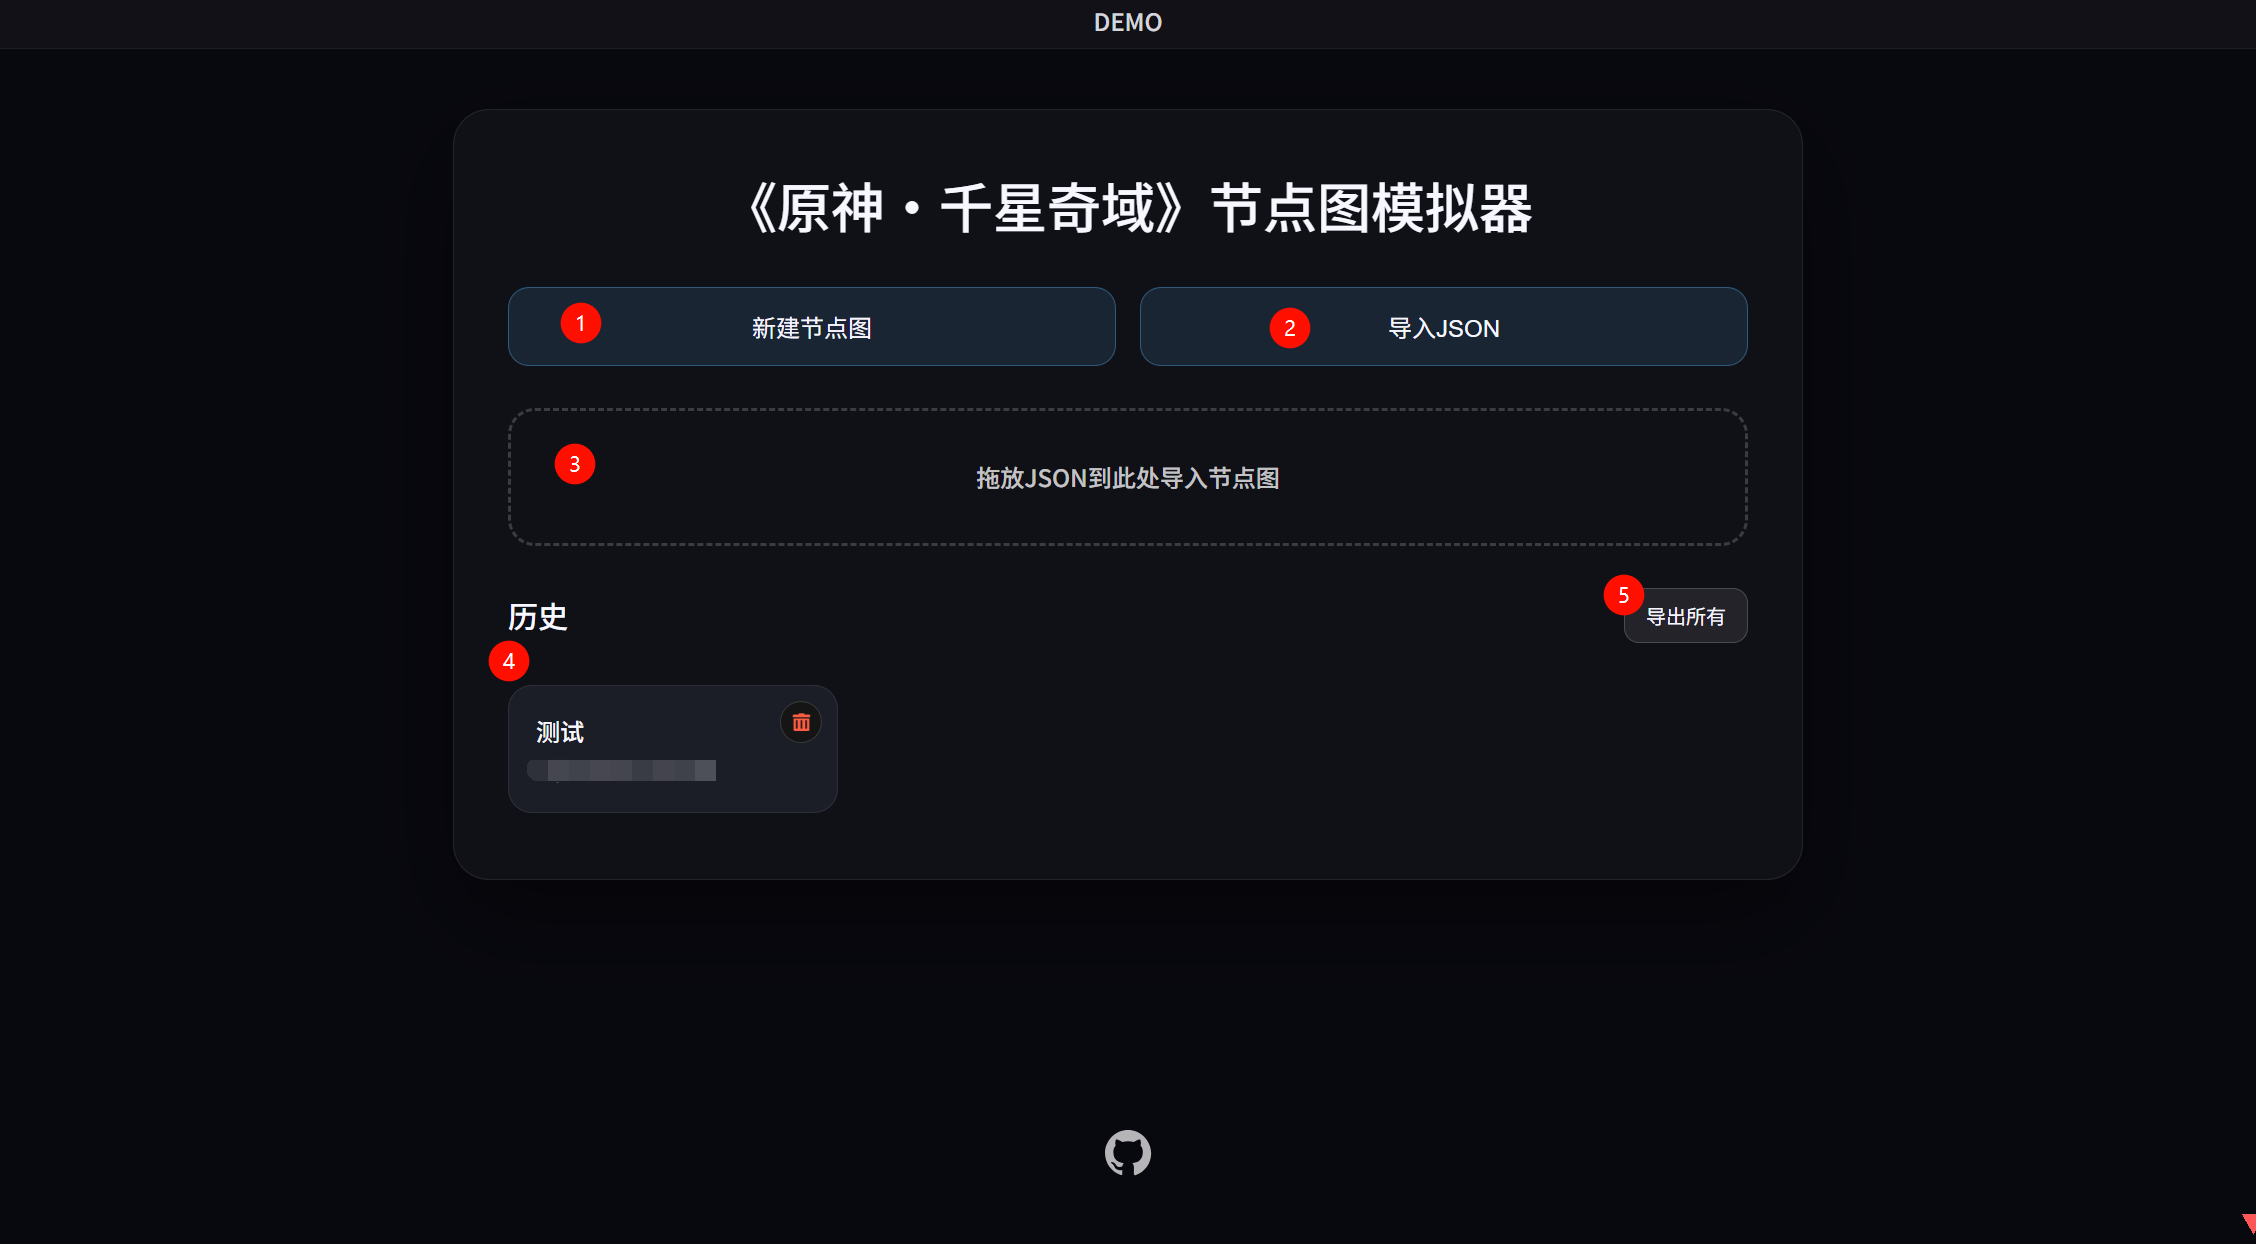
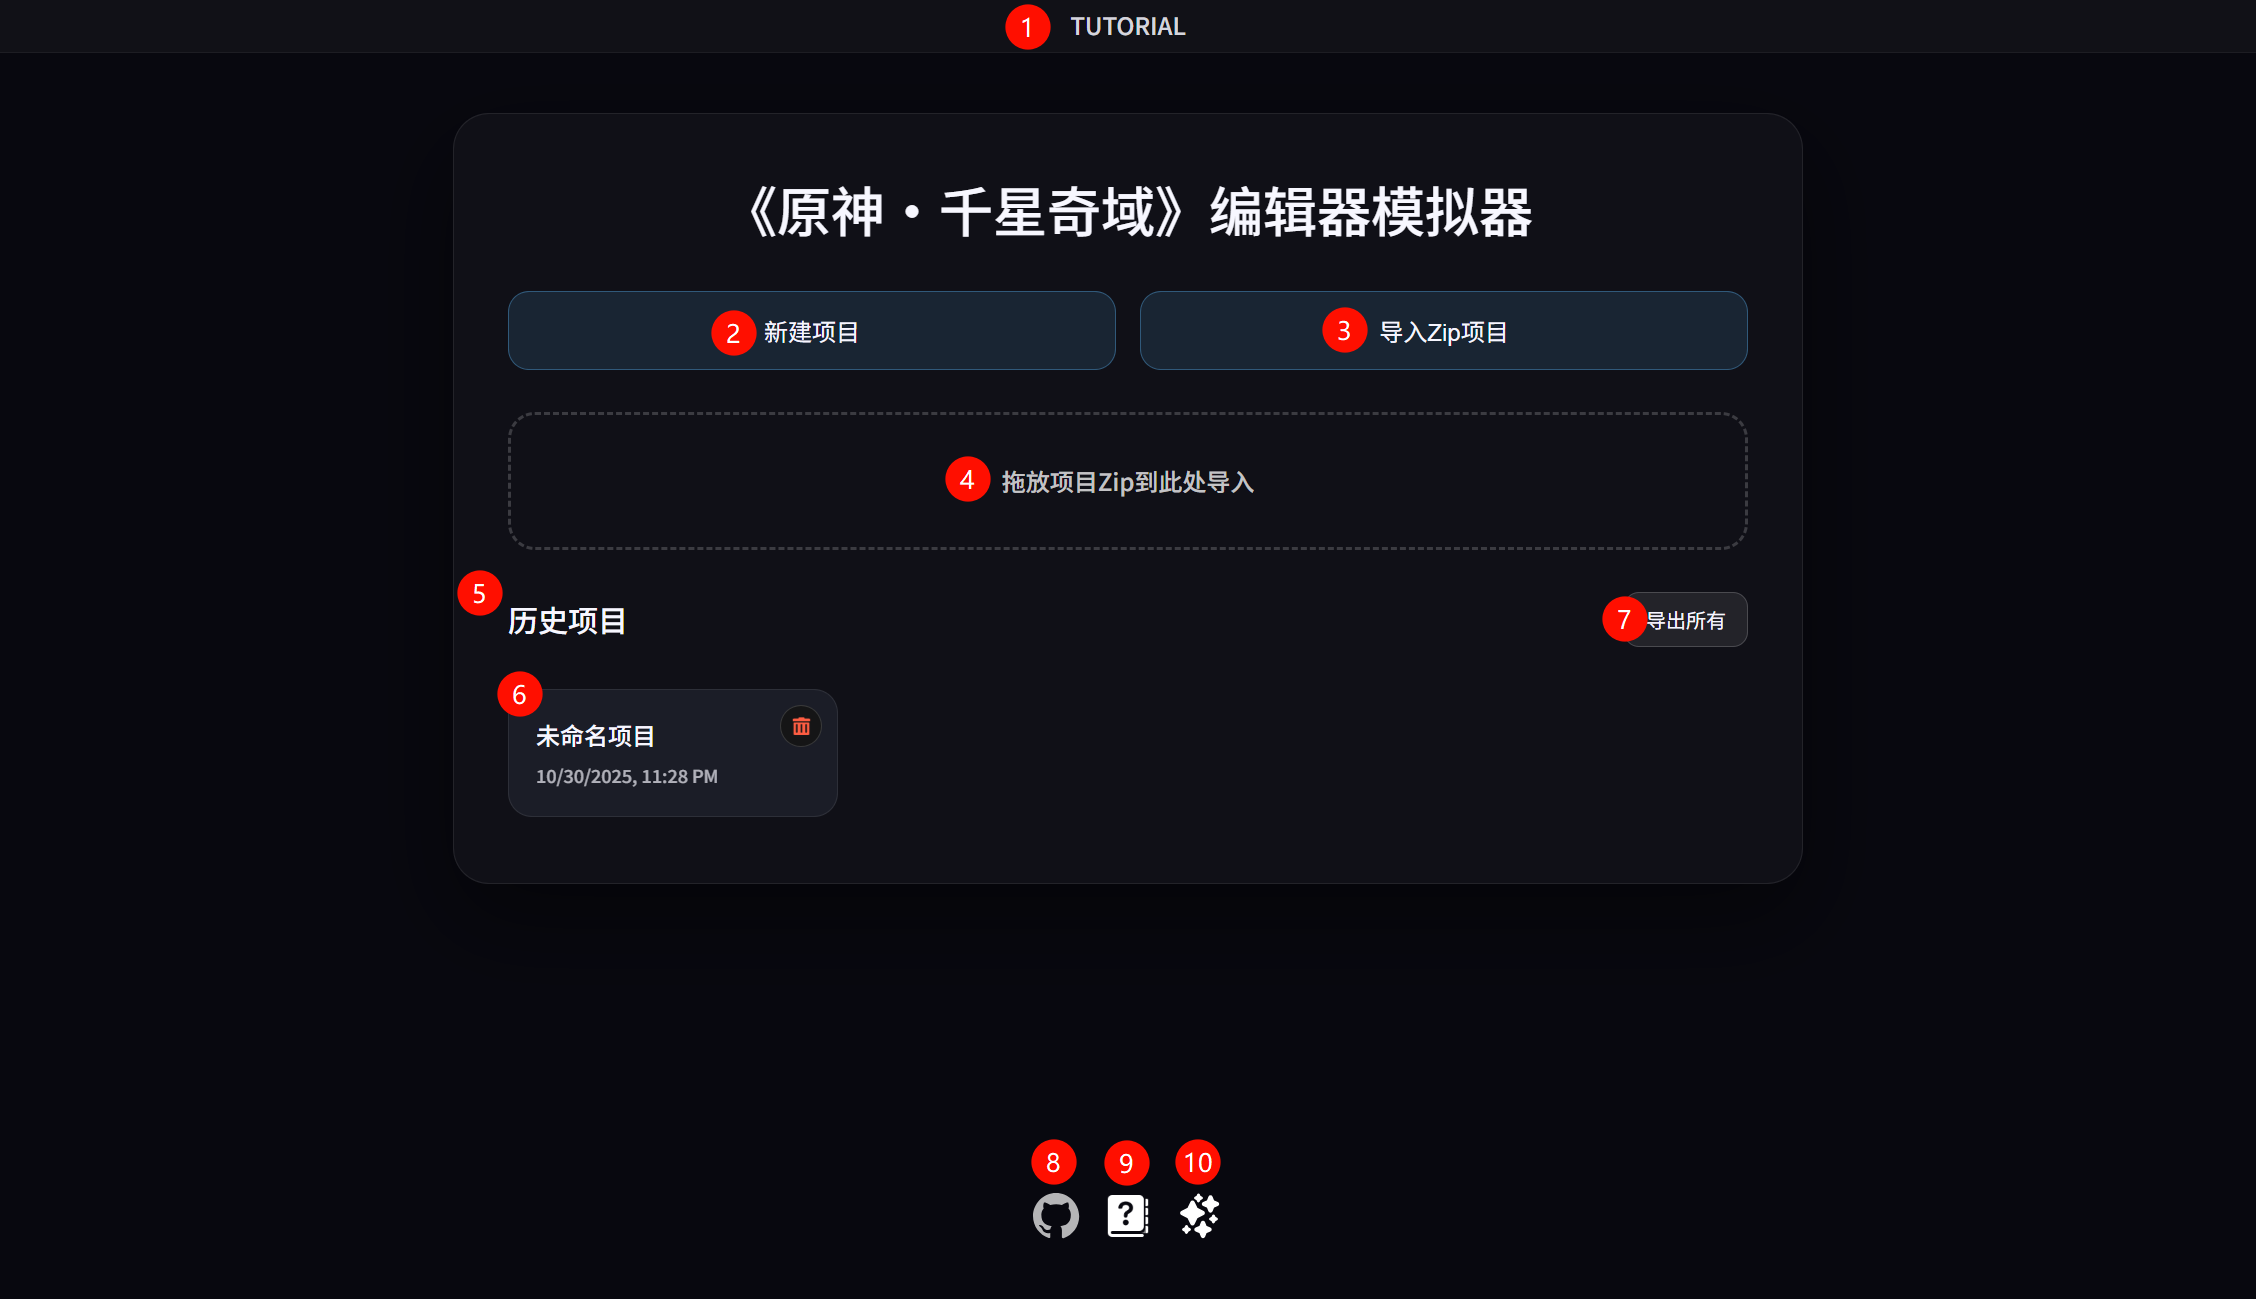
[BETA] Final Update

diff --git a/README.md b/README.md
@@ -5,6 +5,9 @@
 > [!WARNING]  
 > **声明：** 该项目为个人制作，与米哈游无关联。所有引用的素材归其原始版权所有者所有。
 
+> [!WARNING]  
+> 该项目90%以上代码均由AI生成。
+
 ## 仓库结构
 
 - `web/` – 基于Vite的React的网页应用。
@@ -20,7 +23,7 @@
 ### 使用已搭建版本
 
 正式版 https://miliastra.columbina.dev/ 。  
-测试版 https://beta.miliastra.columbina.dev/ 。
+测试版（不定时启用） https://beta.miliastra.columbina.dev/ 。
 
 ### 本地搭建
 
@@ -38,50 +41,119 @@ npm run dev
 
 #### 主页介绍  
 
-![Screenshot-01](/media/tut1.png)
-  1. 新建节点图并打开
-  2. 导入JSON节点图文件并打开
-  3. 拖拽JSON文件到此处导入并打开
-  4. 历史记录，展示所有手动/自动保存到浏览器本地储存的节点图
-  5. 压缩并导出所有保存在浏览器本地储存的JSON节点图文件
+![Screenshot-01](/media/tut1.png)  
+  1. 编辑器版本信息。如未经修改，提交Issue时请附上此版本信息。如有较大修改，请自行解决。
+  2. 新建节点图项目并打开
+  3. 导入Zip节点图项目文件并打开
+  4. 拖拽Zip节点图项目文件到此处导入并打开
+  5. 历史记录，展示所有手动/自动保存到浏览器本地储存的节点图项目
+  6. 项目列表，点击即可打开
+  7. 压缩并导出所有保存在浏览器本地储存的Zip节点图项目文件
+  8. <img src="web/src/assets/icons/github.svg" width="20" alt="GitHub" /> 前往此GitHub仓库页面  
+  9. <img src="web/src/assets/icons/tutorial.png" width="20" alt="Tutorial" /> 打开[官方综合指南](#ugc教程相关)页面  
+  10. <img src="web/src/assets/icons/effects.svg" width="20" alt="Effects" /> 打开[特效预览](#特效预览)页面  
 
-#### 编辑器界面截图介绍
 
-![Screenshot-02](/media/tut2.png)
-  1. 版本信息，提交Issue时请附上此版本信息。如有修改，请提供修改所基于的原神版本号或[千星奇域指南版本号](#查看官方运行的webapp版本号)。
-  2. 文件名编辑
-  3. 撤回 / 重做 (点击或使用快捷键 Ctrl+Z / Ctrl+Shift+Z)
-  4. 功能性按钮：返回到主页 / 手动保存当前打开的节点图到浏览器本地储存 / 导入JSON文件并覆盖当前打开的节点图 / 导出当前打开的节点图为JSON文件 / 在新的页面打开[教程](#ugc教程相关)
-  5. 节点库窗口  
-      - 可通过关键词筛选节点
-      - 选择需要的节点并拖拽到8号区域（画布）以添加此节点
-      - 点击`⇤`按钮可收起节点库窗口
-  6. 节点详情窗口  
-      - 可查看当前选中节点的详情
-      - 可修改当前节点标题
-      - 可修改当前节点可输入数值
-      - 可查看当前节点的入/出连接
-      - 可删除当前节点
-      - 点击`⇥`按钮可收起节点详情窗口
-  7. 提示信息，打开编辑器自动显示，20秒后自动关闭。再次点击可显示画布的基础用法提示，如下↓
-  8. 画布区域  
+#### 编辑器界面-资源管理器介绍
+
+![Screenshot-02](/media/tut2.png)  
+  1. 窗口：
+    - 服务器节点图资源管理器：切换到`服务器节点图资源管理器`标签
+    - 客户端节点图资源管理器：切换到`客户端节点图资源管理器`标签
+    - 返回主页：返回到[主页介绍](#主页介绍)
+  2. 文件：
+    - 保存项目：手动保存当前打开的节点图项目到浏览器本地储存
+    - 编辑项目信息：修改当前打开的节点图项目名称
+    - 导出项目：导出当前打开的节点图项目为Zip文件，可切换设备导入
+  3. 节点版本信息，提交Issue时请附上此版本信息。如有修改，请提供修改所基于的原神版本号
+  4. <img src="web/src/assets/icons/github.svg" width="20" alt="GitHub" /> 前往此GitHub仓库页面  
+  5. <img src="web/src/assets/icons/tutorial.png" width="20" alt="Tutorial" /> 打开[官方综合指南](#ugc教程相关)页面  
+  6. <img src="web/src/assets/icons/effects.svg" width="20" alt="Effects" /> 打开[特效预览](#特效预览)页面  
+  7. `服务器节点图资源管理器`标签
+  8. `客户端节点图资源管理器`标签
+  9. `节点图`标签，停留0.5s会显示此节点图文件的路径
+  10. 节点图分类
+  11. 节点图文件夹/页签
+  12. 返回上一次停留的路径
+  13. 重置`12-返回上一次停留的路径`操作
+  14. 路径显示，可通过点击快速跳转路径
+  15. 搜索当前路径的页签/节点图
+  16. 页签/节点图列表  
+      页签：
+      - 左键
+        - 双击页签可在当前标签页打开此页签
+      - 右键：
+        - 打开：在当前标签页打开此页签
+        - 重命名：重命名此页签
+        - 复制：复制此页签，包括其下所有节点图。可在同类型节点图路径内的其他路径粘贴。
+        - 删除：删除此页签及其下所有节点图
+        - 导出：压缩导出此页签内的所有JSON节点图文件为Zip文件
+      - 类型：显示为`文件夹`（有点屎山了，官方使用的名称为`页签`，但webapp内大部分时候为`文件夹`，望谅解。）
+      - 信息：显示此页签下节点图的数量  
+
+      节点图：
+      - 左键
+        - 双击节点图可在新的标签页打开节点图
+      - 右键：
+        - 打开：在新的标签页打开此节点图
+        - 重命名：重命名此节点图
+        - 复制：在当前路径复制此节点图
+        - 删除：删除此节点图
+        - 导出：导出此节点图为 `.server.json` / `.client.json` 文件
+        - 复制节点图ID：将此节点图的ID复制到剪贴板
+      - 类型：显示为`节点图`
+      - 信息：
+        - 如有红色标注则表示存在错误，无法直接打开。可将其导出为 `.server.json` 或 `.client.json` 进行离线修复，请根据出错原因修改 Json 内的 `environment`键 的值至正确的值。
+        - 否则将显示节点图分配的id。
+
+#### 编辑器界面-节点编辑器介绍
+![Screenshot-03](/media/tut3.png)  
+(节点图乱做的，仅供展示style)
+  1. 节点库窗口  
+  2. 点击`⇤`按钮可收起节点库窗口
+  3. 可通过关键词筛选节点库内的节点
+  4. 节点类型，点击可展开。选择需要的节点并拖拽到5号区域（画布）以添加此节点
+  5. 画布区域  
       - 右键拖拽以平移视图
       - 鼠标滚轮缩放视图
       - 左键拖动可多选节点（向左上/下方向为接触选择（绿框），向右上/下方向为框选选择（蓝框），类似AutoCAD）
       - Del键删除所有选中节点
       - 右键空白处可新建节点
       - 右键节点可复制/删除节点
+  6. 节点详情窗口  
+      - 可查看当前选中节点的详情
+      - 可修改当前节点标题
+      - 可修改当前节点可输入数值
+      - 可查看当前节点的入/出连接
+      - 可删除当前节点
+  7. 点击`⇥`按钮可收起节点详情窗口
+  8. 折叠操作栏
+  9. 进入注释模式：单击画布区域的节点或空白处添加注释。
+  10. 编辑此节点图的名称
+  11. 调整画布缩放
+  12. 撤销上一步操作（Ctrl+Z）
+  13. 重做上一步操作（Ctrl+Shift+Z）
+  14. 保存此次所有编辑过的节点图到浏览器本地储存
+  15. 另存为：复制此节点图到当前项目的其他路径
+  16. 导出此节点图为 `.server.json` / `.client.json` 文件
+  17. (未在图内，介于9和10之间，在客户端节点图编辑器可见)调整执行间隔时间，无任何用处，仅用于还原官方编辑器。
 
 ## 额外页面
 
 ### UGC教程相关
+![Screenshot-04](/media/tut4.png)  
+
 此项目也可查看保存在本地的官方综合指南，点击主页底部的 <img src="web/src/assets/icons/tutorial.png" width="20" alt="Tutorial" />  图标，或在节点图编辑页面点击右上角的教程按钮即可打开教程页面。
 
 灵感来源于 [https://milidocs.tiiny.site/](https://milidocs.tiiny.site/) 。
 
 所有指南均从本地加载，因此可能需要[更新](#通过官方源更新教程)。
 
+提交Issue时请附上顶部的版本号信息，如有修改，请提供修改所基于的[官方千星奇域指南版本号](#查看官方运行的webapp版本号)。
+
 ### 特效预览
+![Screenshot-05](/media/tut5.png)  
+
 此项目包含了一个千星沙盒的特效预览功能，点击主页底部的 <img src="web/src/assets/icons/effects.svg" width="20" alt="Effects" /> 图标，或在节点图编辑页面点击右上角的特效预览按钮即可打开特效预览页面。
 
 此特效预览原作者为[B站：Ayaya小王](https://space.bilibili.com/2448140)。修改了部分css以保证网站的整体风格统一。
@@ -100,7 +172,7 @@ npm run dev
 
 ### 资源管理器校验
 
-资源管理器按 `服务器 <或> 客户端 → 分类 → 组（文件夹） → Json节点图` 的层级展示：
+资源管理器按 `服务器 <或> 客户端 → 分类 → 页签（文件夹） → Json节点图` 的层级展示：
 
 - 同时加载 `nodeDefinitions.server.ts` / `nodeDefinitions.client.ts` 中的节点定义（若为空则回退到 `nodeDefinitions.ts`）。  
 - 打开节点图时会验证 `GraphDocument.environment` 是否与所在目录一致，并确保节点类型存在于当前环境允许的列表。  
